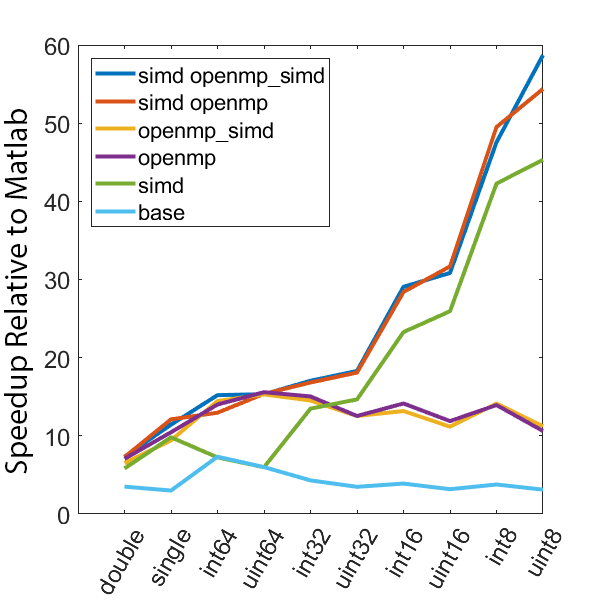
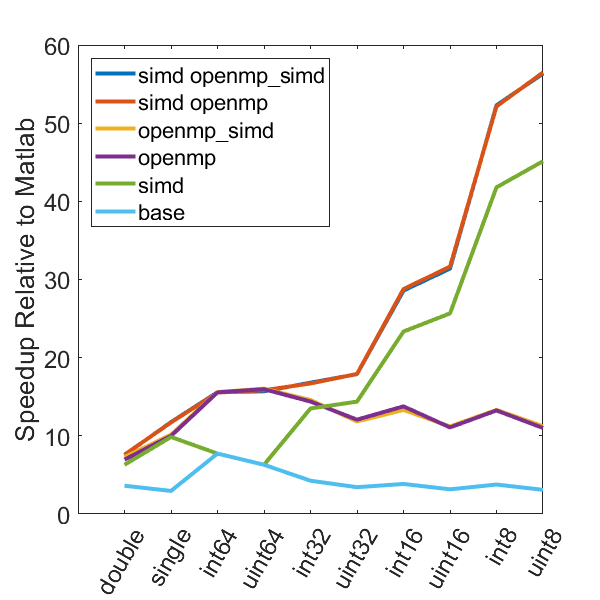
blog update

diff --git a/tests/+big_plot_tests/+examples/e004_blog_post_part2.m b/tests/+big_plot_tests/+examples/e004_blog_post_part2.m
@@ -31,15 +31,17 @@ types = {'double' 'single' 'int64' 'uint64' ...
 
 n_flags = length(flags);
 n_types = length(types);
-r = zeros(n_flags,n_types);
+r = zeros(n_flags,n_types,20);
 
+for k = 1:20
 for i = 1:n_flags
     fprintf('Running flag: %s\n',flags{i});
     big_plot.compile('flags',flags{i},'verbose',false);
     for j = 1:n_types
         s = big_plot_tests.examples.e004_blog_post('data_type',types{j});
-        r(i,j) = s.ratio;
+        r(i,j,k) = s.ratio;
     end
+end
 end
 
 keyboard
